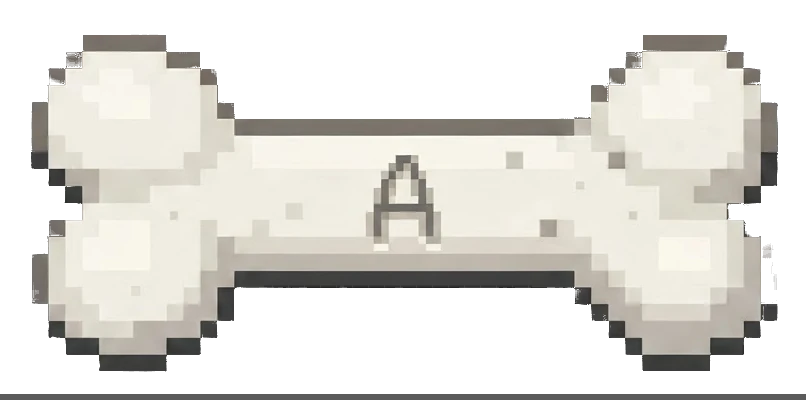
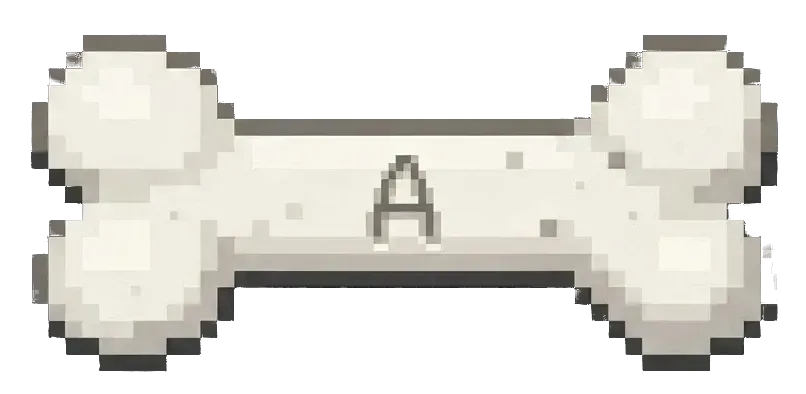
-

diff --git a/components/shackles-puzzle.tsx b/components/shackles-puzzle.tsx
@@ -125,6 +125,13 @@ const ShacklesPuzzle: React.FC<ShacklesPuzzleProps> = ({ onSolve }) => {
   const handleShacklesClick = () => {
     if (shacklesState !== "resting") return // Prevent clicking during animation
 
+    // Stop providing bones after puzzle is solved
+    if (currentIndex >= solution.length) {
+      setDialogue("Shackles has already received all the bones needed. He contentedly chews on them.")
+      setTimeout(() => setDialogue(null), 3000)
+      return
+    }
+
     const hasBuriedFirstR = currentIndex > 0 // After first R is buried
 
     if (!hasBuriedFirstR) {

diff --git a/data/puzzles-1.ts b/data/puzzles-1.ts
@@ -75,7 +75,7 @@ export const puzzlesSet1: Puzzle[] = [
   level: 6,
   question: "The Guard introduces you to his pet dog Shackles.",
   description: "",
-  solution: "R A B I D   R E N D",
+  solution: "RABID REND",
   category: "interactive",
   isShacklesPuzzle: true,
   hints: [
